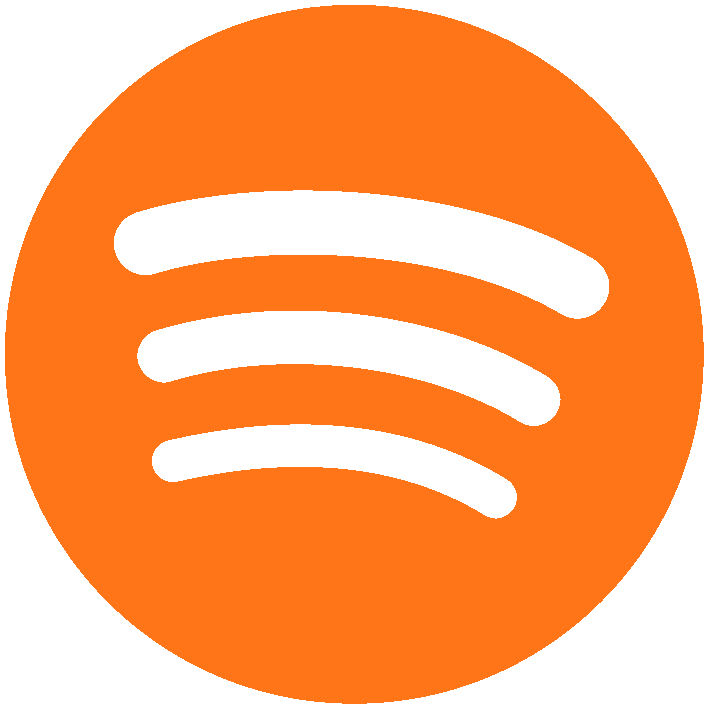
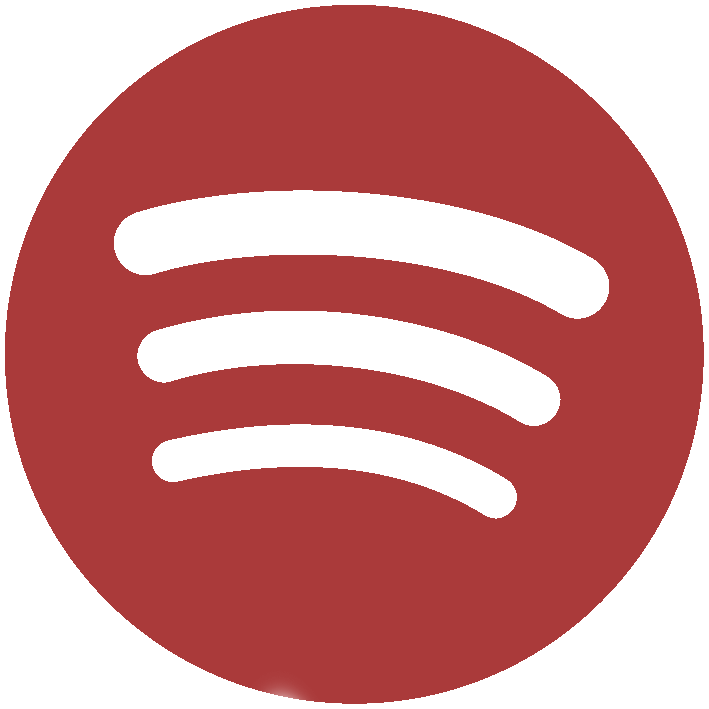
update seasonal theme

diff --git a/assets/css/season.css b/assets/css/season.css
@@ -1,27 +1,26 @@
 /* Root Variables */
 :root {
-   --main-color: #222;
-   --secondary-color: #000;
+   --main-color: #A4B787;
+   --secondary-color: #F4F4F4;
 
-   --border-color: #666;
+   --border-color: #c1c1c1;
 
-   --main-txt: #fff;
-   --secondary-txt: #eee;
+   --main-txt: black;
+   --secondary-txt: #222;
 
-   --main-font: 'Creepster', monospace;
+   --main-font: 'Festive', cursive;
 
-   --theme-dot-border: #fff;
+   --theme-dot-border: #222;
 
-   --preview-bg: rgba(68, 68, 68, 0.5);
-   --preview-shadow: #111;
+   --preview-bg: rgba(251, 249, 243, 0.8);
+   --preview-shadow: #f0ead9;
 
-   --link-border: #FF7518;
+   --link-border: #AA3A3A;
    
-   --btn-color: #999999;
+   --btn-color: #AA3A3A;
 }
 
 
-#dark {border-color: var(--theme-dot-border);}
-#blue {border-color: var(--theme-dot-border);}
-#submit {color: black;}
 .social-wrapper a{font-family: var(--main-font);}
+
+.thumbnail p {font-size: 3em;}

diff --git a/index.html b/index.html
@@ -5,7 +5,7 @@
    <meta http-equiv="X-UA-Compatible" content="IE=edge">
    <meta name="viewport" content="width=device-width, initial-scale=1.0">
    <link rel="stylesheet" type="text/css" href="assets/css/index.css" />
-   <link href="https://fonts.googleapis.com/css2?family=IBM+Plex+Mono:wght@500;700&family=PT+Sans&family=Creepster&display=swap" rel="stylesheet">
+   <link href="https://fonts.googleapis.com/css2?family=IBM+Plex+Mono:wght@500;700&family=PT+Sans&family=Festive&display=swap" rel="stylesheet">
    <link id="theme-style" rel="stylesheet" type="text/css" href="assets/css/index.css" />
    <script type="text/javascript" src="assets/js/index.js" defer></script>
    <title>Axel Olivas | Passionately Curious</title>

diff --git a/work-bsf.html b/work-bsf.html
@@ -5,7 +5,7 @@
    <meta http-equiv="X-UA-Compatible" content="IE=edge">
    <meta name="viewport" content="width=device-width, initial-scale=1.0">
    <link rel="stylesheet" type="text/css" href="assets/css/index.css" />
-   <link href="https://fonts.googleapis.com/css2?family=IBM+Plex+Mono:wght@500;700&family=PT+Sans&family=Creepster&display=swap" rel="stylesheet">
+   <link href="https://fonts.googleapis.com/css2?family=IBM+Plex+Mono:wght@500;700&family=PT+Sans&family=Festive&display=swap" rel="stylesheet">
    <link id="theme-style" rel="stylesheet" type="text/css" href="assets/css/index.css" />
    <script type="text/javascript" src="assets/js/work.js" defer></script>
    <title>Black Sheep Flooring</title>

diff --git a/work-spotify.html b/work-spotify.html
@@ -5,7 +5,7 @@
    <meta http-equiv="X-UA-Compatible" content="IE=edge">
    <meta name="viewport" content="width=device-width, initial-scale=1.0">
    <link rel="stylesheet" type="text/css" href="assets/css/index.css" />
-   <link href="https://fonts.googleapis.com/css2?family=IBM+Plex+Mono:wght@500;700&family=PT+Sans&family=Creepster&display=swap" rel="stylesheet">
+   <link href="https://fonts.googleapis.com/css2?family=IBM+Plex+Mono:wght@500;700&family=PT+Sans&family=Festive&display=swap" rel="stylesheet">
    <link id="theme-style" rel="stylesheet" type="text/css" href="assets/css/index.css" />
    <script type="text/javascript" src="assets/js/work.js" defer></script>
    <title>Spotify Clone</title>

diff --git a/work-designs.html b/work-designs.html
@@ -5,7 +5,7 @@
    <meta http-equiv="X-UA-Compatible" content="IE=edge">
    <meta name="viewport" content="width=device-width, initial-scale=1.0">
    <link rel="stylesheet" type="text/css" href="assets/css/index.css" />
-   <link href="https://fonts.googleapis.com/css2?family=IBM+Plex+Mono:wght@500;700&family=PT+Sans&family=Creepster&display=swap" rel="stylesheet">
+   <link href="https://fonts.googleapis.com/css2?family=IBM+Plex+Mono:wght@500;700&family=PT+Sans&family=Festive&display=swap" rel="stylesheet">
    <link id="theme-style" rel="stylesheet" type="text/css" href="assets/css/index.css" />
    <script type="text/javascript" src="assets/js/work.js" defer></script>
    <title>Design Work</title>

diff --git a/assets/css/index.css b/assets/css/index.css
@@ -203,7 +203,7 @@ h6 {font-size: 1em;}
    background-color: #192734;
    border-color: black;
 }
-#season {background-color: #FF7518;}
+#season {background: linear-gradient(-45deg, #A4B787 0 50%, #AA3A3A 50% 100%);;}
 
 .right {
    grid-area: right-column;
